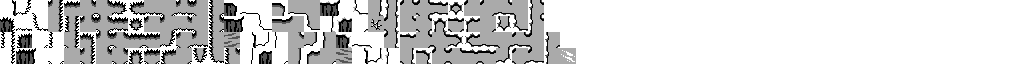
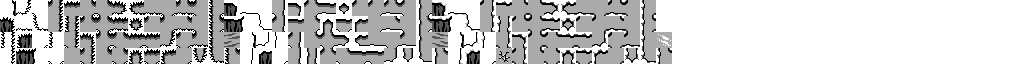
Expanded sand shore tileset

Changed region(s): [[0.25, 0.0, 0.6562, 1.0]]

diff --git a/core/src/net/benmclean/planetgenerator/view/GameScreen.java b/core/src/net/benmclean/planetgenerator/view/GameScreen.java
@@ -109,7 +109,7 @@ public class GameScreen implements Screen, Disposable {
                     tile = new StaticTiledMapTile(assets.atlas.findRegion("utils/color3"));
                     layer[1].setCell(x, y, makeCell(tile));
                 } else if (answer != null) {
-                    name = "terrain/SnowShore";
+                    name = "terrain/SandShore";
                     if (!world.isWall(x, y+1)) name += "N";
                     if (!world.isWall(x, y-1)) name += "S";
                     if (!world.isWall(x+1, y)) name += "E";
